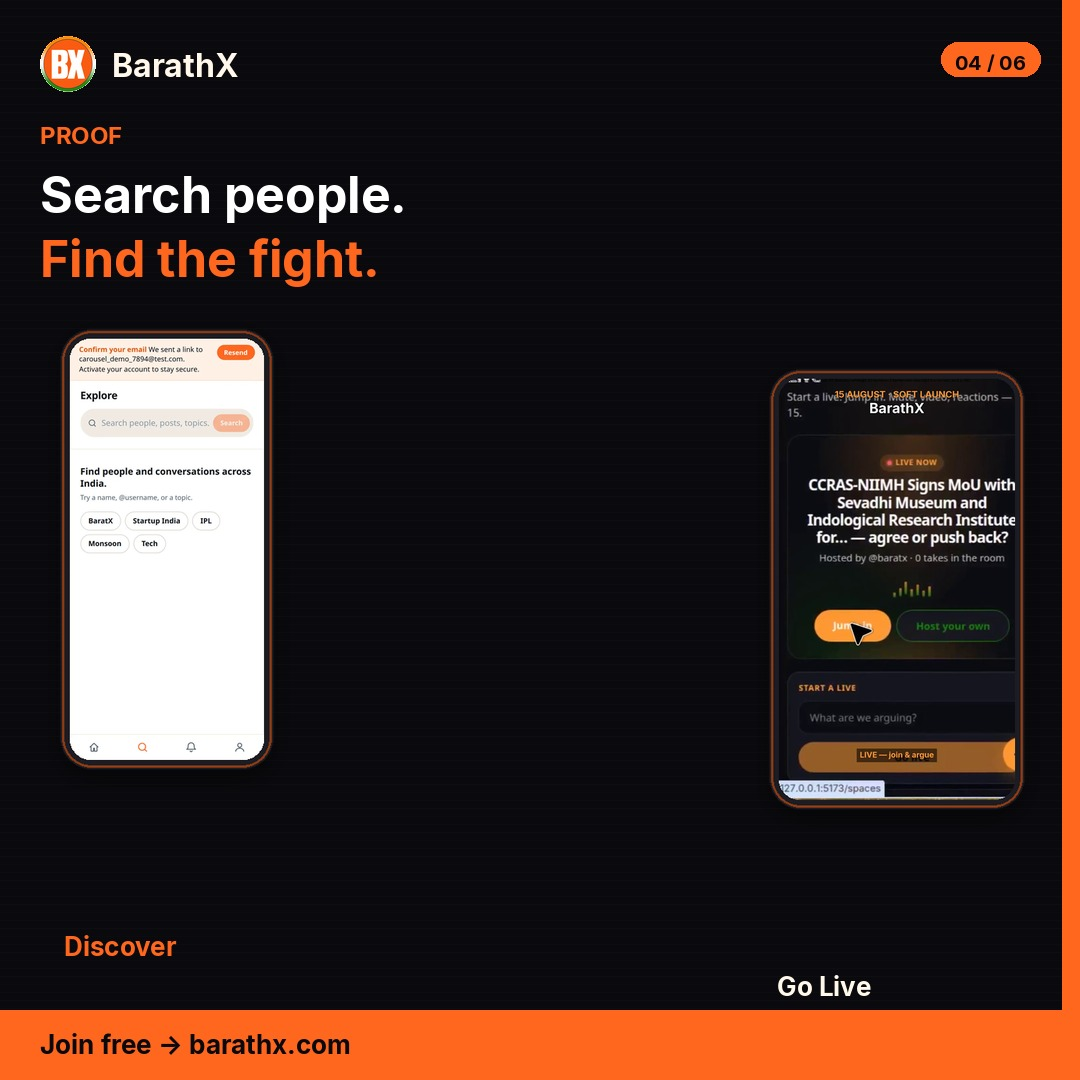
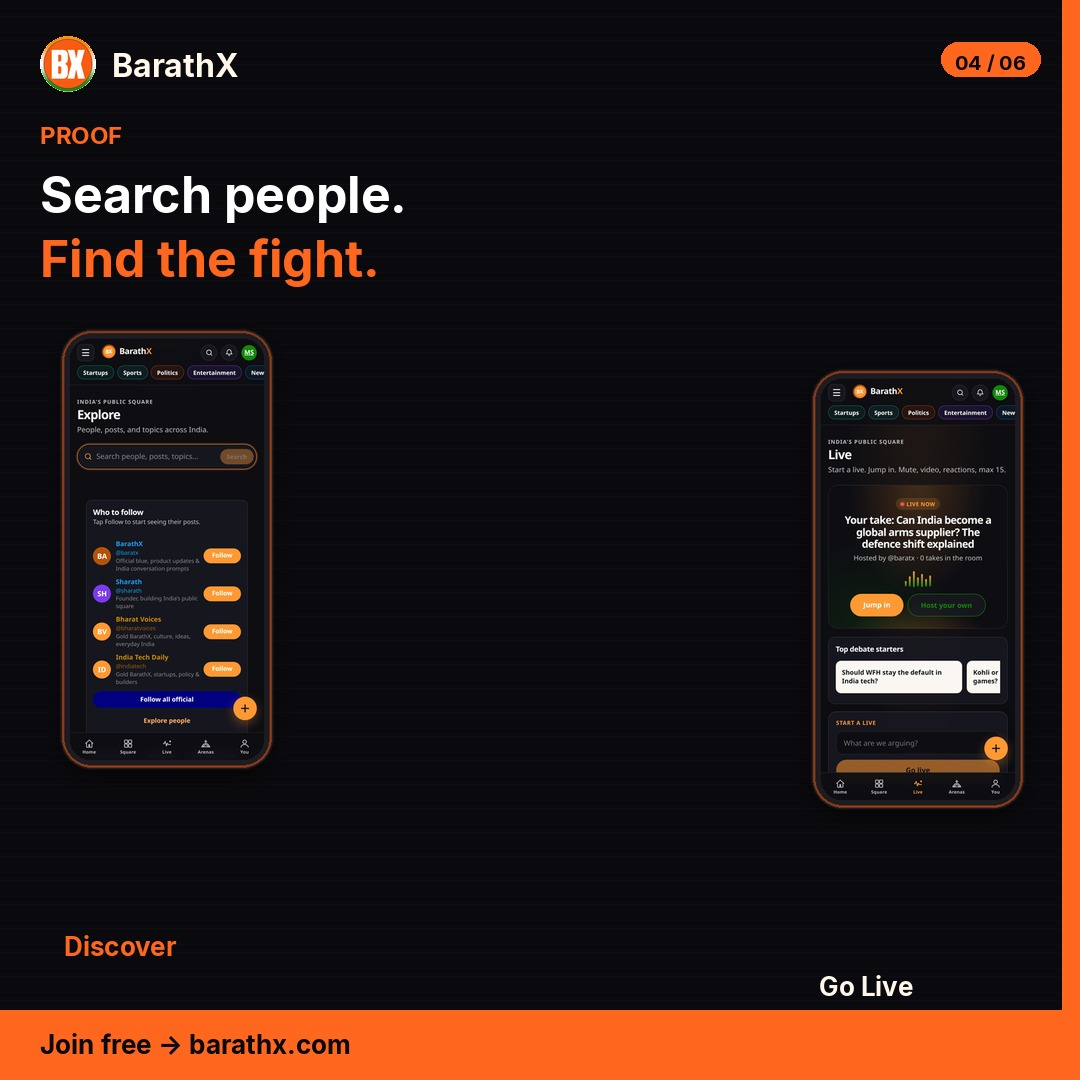
fix: refresh daily mockups with current BarathX UI
Recapture Home/Square/Arenas/Live/Landing from the live product build
and regenerate Aug 17 WA/X/LinkedIn approval mockups plus IG packs.

Changed region(s): [[0.7028, 0.3361, 0.9472, 0.7639], [0.0611, 0.3056, 0.2444, 0.7028], [0.7028, 0.8861, 0.8556, 0.9472]]

diff --git a/brand/social/daily/render_daily_crosspost.py b/brand/social/daily/render_daily_crosspost.py
@@ -16,6 +16,7 @@ from PIL import Image, ImageDraw, ImageFilter, ImageFont
 
 ROOT = Path(__file__).resolve().parents[3]
 SCREENS = ROOT / "brand" / "social" / "whatsapp" / "screens"
+LIVE = SCREENS / "live-2026-08-16"  # current product UI captures
 CAROUSEL = ROOT / "brand" / "carousel" / "screens"
 LOGO = ROOT / "brand" / "baratx-logo-avatar.png"
 DAILY = Path(__file__).resolve().parent
@@ -107,7 +108,27 @@ def phone(path: Path, h: int = 560) -> Image.Image:
 
 
 def screen(name: str) -> Path:
+    # Prefer fresh live captures of current BarathX UI (Home / Square / Arenas / Live).
     m = {
+        "square": LIVE / "square-mobile.png",
+        "square2": LIVE / "square-foryou-mobile.png",
+        "arenas": LIVE / "arenas-mobile.png",
+        "live": LIVE / "live-mobile.png",
+        "home": LIVE / "home-mobile.png",
+        "signup": LIVE / "signup-mobile.png",
+        "landing": LIVE / "landing-mobile.png",
+        "feed": LIVE / "square-mobile.png",
+        "compose": LIVE / "square-mobile.png",
+        "search": LIVE / "search-mobile.png",
+        "profile": LIVE / "profile-mobile.png",
+        "landing_desk": LIVE / "landing-desktop.png",
+        "home_desk": LIVE / "home-desktop.png",
+        "square_desk": LIVE / "square-desktop.png",
+        "live_desk": LIVE / "live-desktop.png",
+        "arenas_desk": LIVE / "arenas-desktop.png",
+    }
+    # Fallbacks to older brand screens / carousel if a live file is missing.
+    fallback = {
         "square": SCREENS / "bx-site-square-b.jpg",
         "square2": SCREENS / "bx-site-square-c.jpg",
         "arenas": SCREENS / "bx-site-arenas.jpg",
@@ -117,9 +138,19 @@ def screen(name: str) -> Path:
         "landing": SCREENS / "bx-site-landing.png",
         "feed": CAROUSEL / "m03-feed.png",
         "compose": CAROUSEL / "07-compose.png",
+        "search": CAROUSEL / "m05-search.png",
+        "profile": CAROUSEL / "m06-profile.png",
     }
-    p = m[name]
-    return p if p.exists() else next(x for x in m.values() if x.exists())
+    p = m.get(name)
+    if p and p.exists():
+        return p
+    fb = fallback.get(name)
+    if fb and fb.exists():
+        return fb
+    for alt in list(m.values()) + list(fallback.values()):
+        if alt.exists():
+            return alt
+    raise FileNotFoundError(name)
 
 
 def morning_genz(*, for_approval: bool) -> Image.Image:
@@ -226,7 +257,7 @@ def evening_whatsapp(*, for_approval: bool) -> Image.Image:
     d.text((36, 165), "Drop. Pick.", font=fnt(54), fill=WHITE)
     d.text((36, 235), "Argue live.", font=fnt(54), fill=SAFFRON)
 
-    phones = [("compose", "Write"), ("arenas", "Side"), ("live", "Live")]
+    phones = [("home", "Home"), ("arenas", "Side"), ("live", "Live")]
     layer = base.convert("RGBA")
     xs = [40, 380, 720]
     for (name, label), x in zip(phones, xs):
